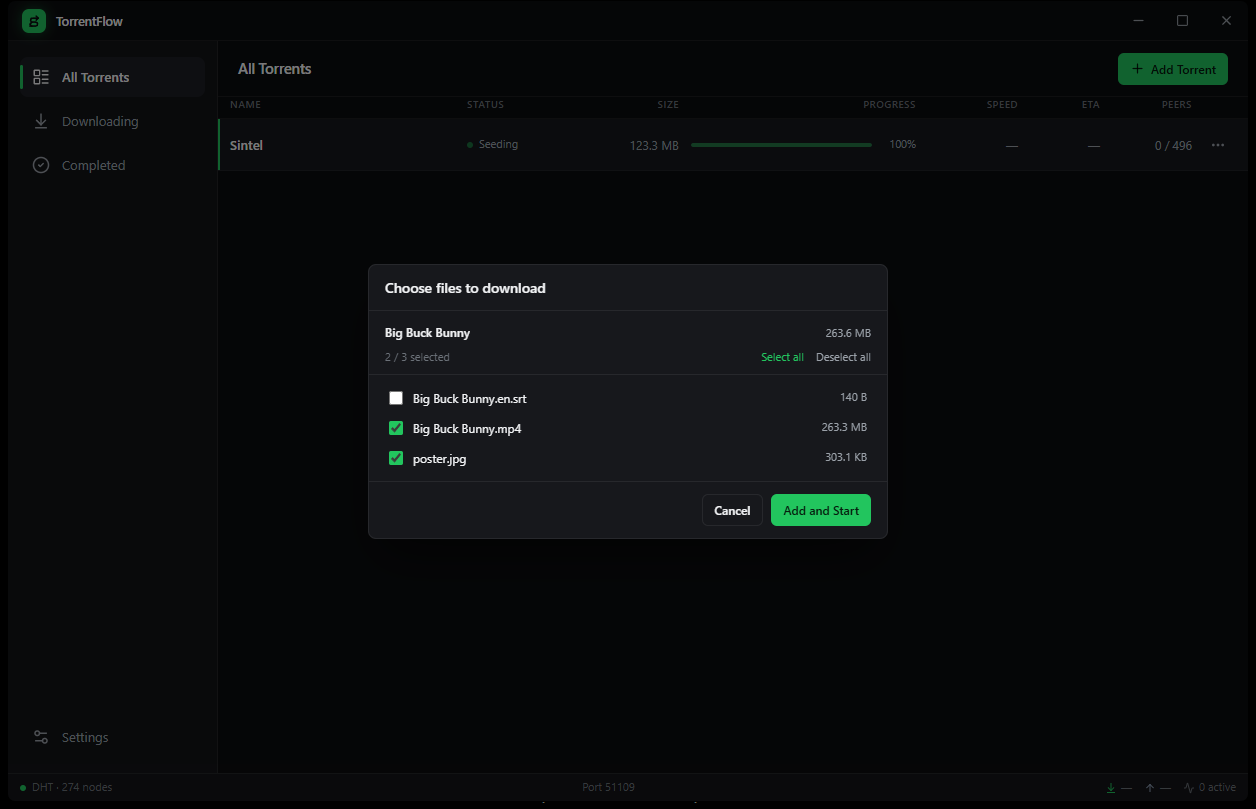
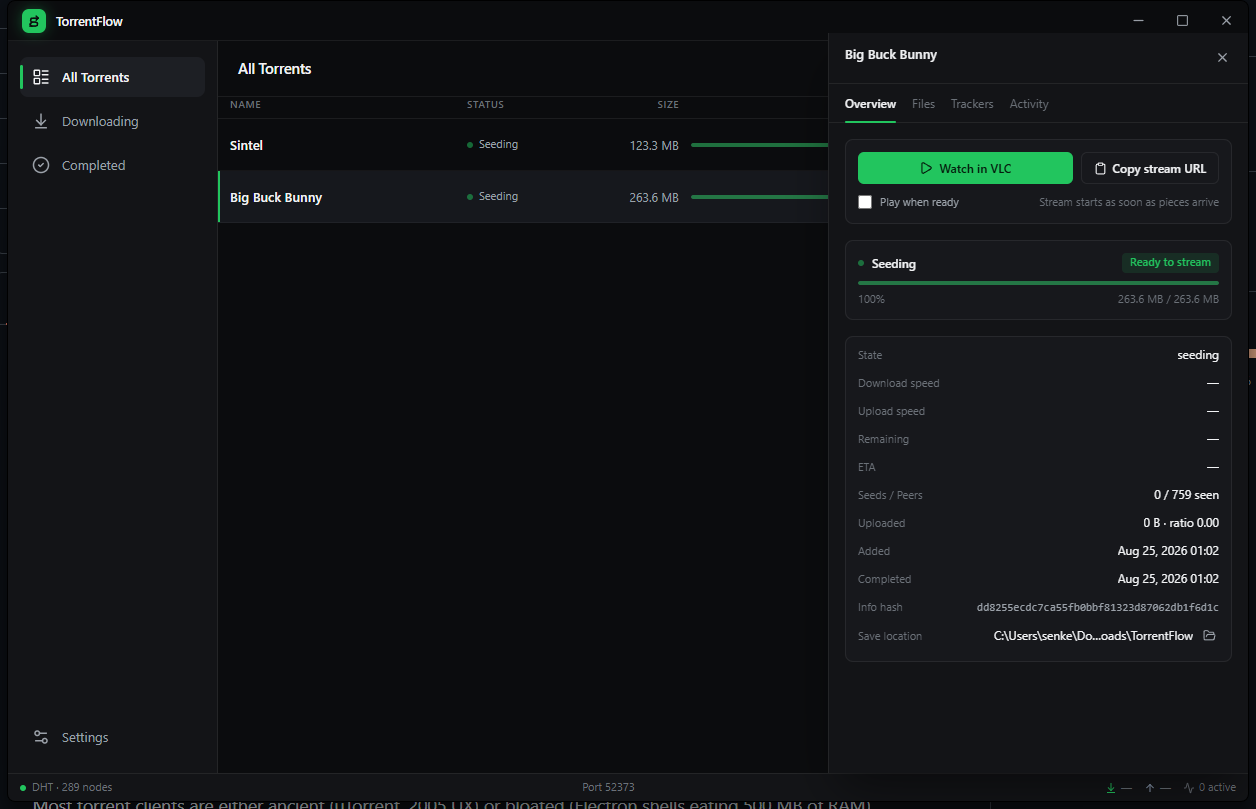
feat: reveal download folder from details drawer; v0.1.1
Completed:
- folder icon button next to save location opens Explorer via plugin-opener
- row menu 'Open folder' unchanged
- fresh marketing screenshot: two legal torrents + streaming drawer

Decisions: reuse openPath (already permitted) instead of revealItemInDir; zero capability changes.

Next: tag v0.1.1, CI builds installer.

Patterns: feature buttons live next to the data they act on.

diff --git a/src/components/DetailsDrawer.tsx b/src/components/DetailsDrawer.tsx
@@ -2,6 +2,7 @@ import { useEffect, useMemo, useState } from "react";
 import {
   ChevronDown,
   Clipboard,
+  FolderOpen,
   Loader2,
   Play,
   Subtitles,
@@ -15,6 +16,7 @@ import {
   streamUrl,
   suggestVideoFile,
 } from "../lib/api";
+import { openPath } from "@tauri-apps/plugin-opener";
 import {
   errMsg,
   formatBytes,
@@ -414,18 +416,30 @@ export function DetailsDrawer({
                 <span className="font-mono text-[11px] text-ink-2">{t.infoHash}</span>
               </Def>
               <Def label="Save location">
-                <button
-                  title={`Click to copy · ${t.savePath}`}
-                  onClick={() =>
-                    navigator.clipboard.writeText(t.savePath).then(
-                      () => toast("success", "Path copied"),
-                      () => {},
-                    )
-                  }
-                  className="max-w-full truncate hover:text-accent"
-                >
-                  {truncMiddle(t.savePath, 34)}
-                </button>
+                <span className="flex items-center justify-end gap-1.5">
+                  <button
+                    title={`Click to copy · ${t.savePath}`}
+                    onClick={() =>
+                      navigator.clipboard.writeText(t.savePath).then(
+                        () => toast("success", "Path copied"),
+                        () => {},
+                      )
+                    }
+                    className="max-w-full truncate hover:text-accent"
+                  >
+                    {truncMiddle(t.savePath, 34)}
+                  </button>
+                  <button
+                    aria-label="Open folder in Explorer"
+                    title="Open in Explorer"
+                    onClick={() =>
+                      openPath(t.savePath).catch((e) => toast("error", "Could not open folder", errMsg(e)))
+                    }
+                    className="icon-btn h-5 w-5 shrink-0"
+                  >
+                    <FolderOpen size={13} />
+                  </button>
+                </span>
               </Def>
             </div>
 
